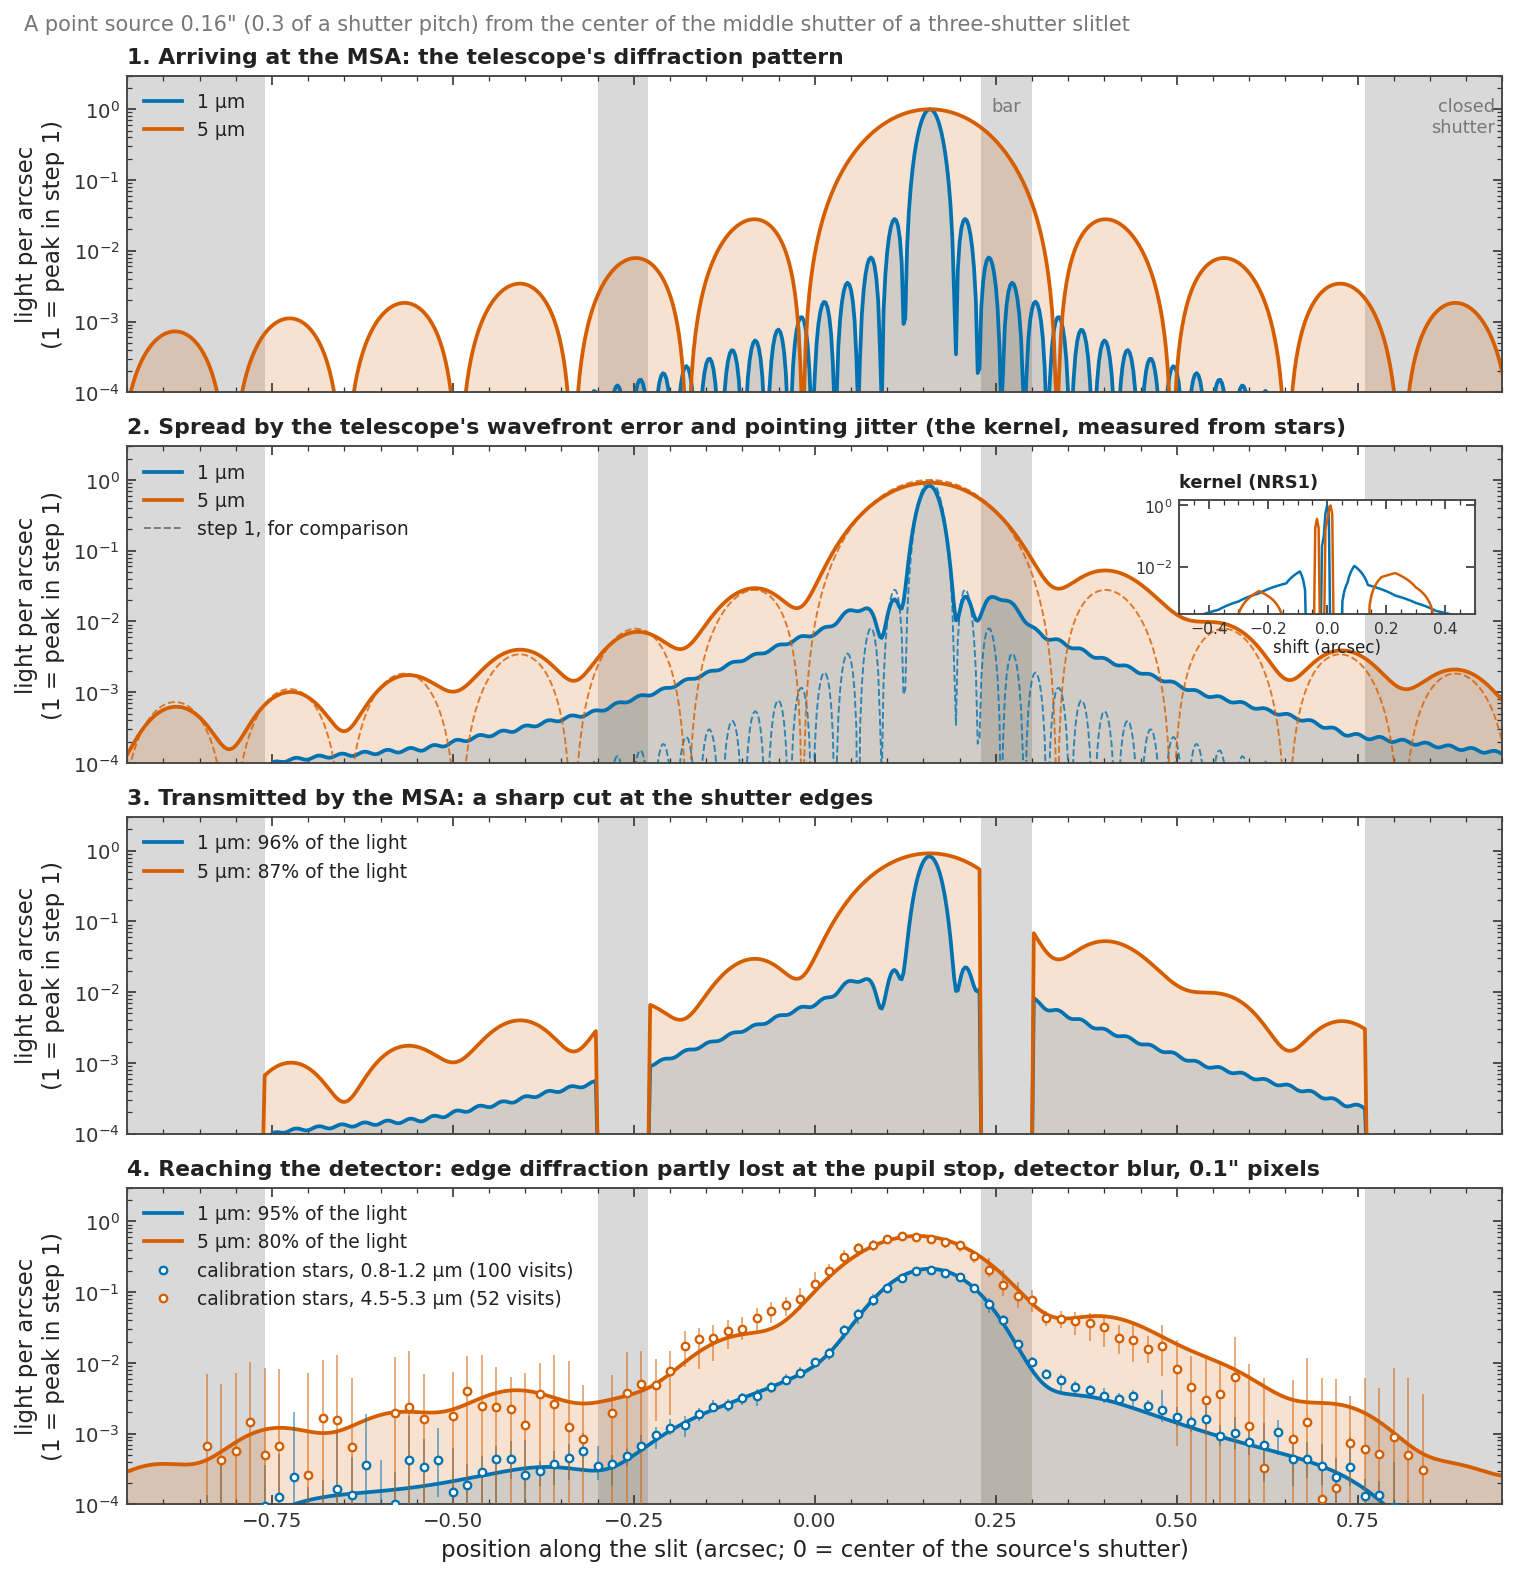
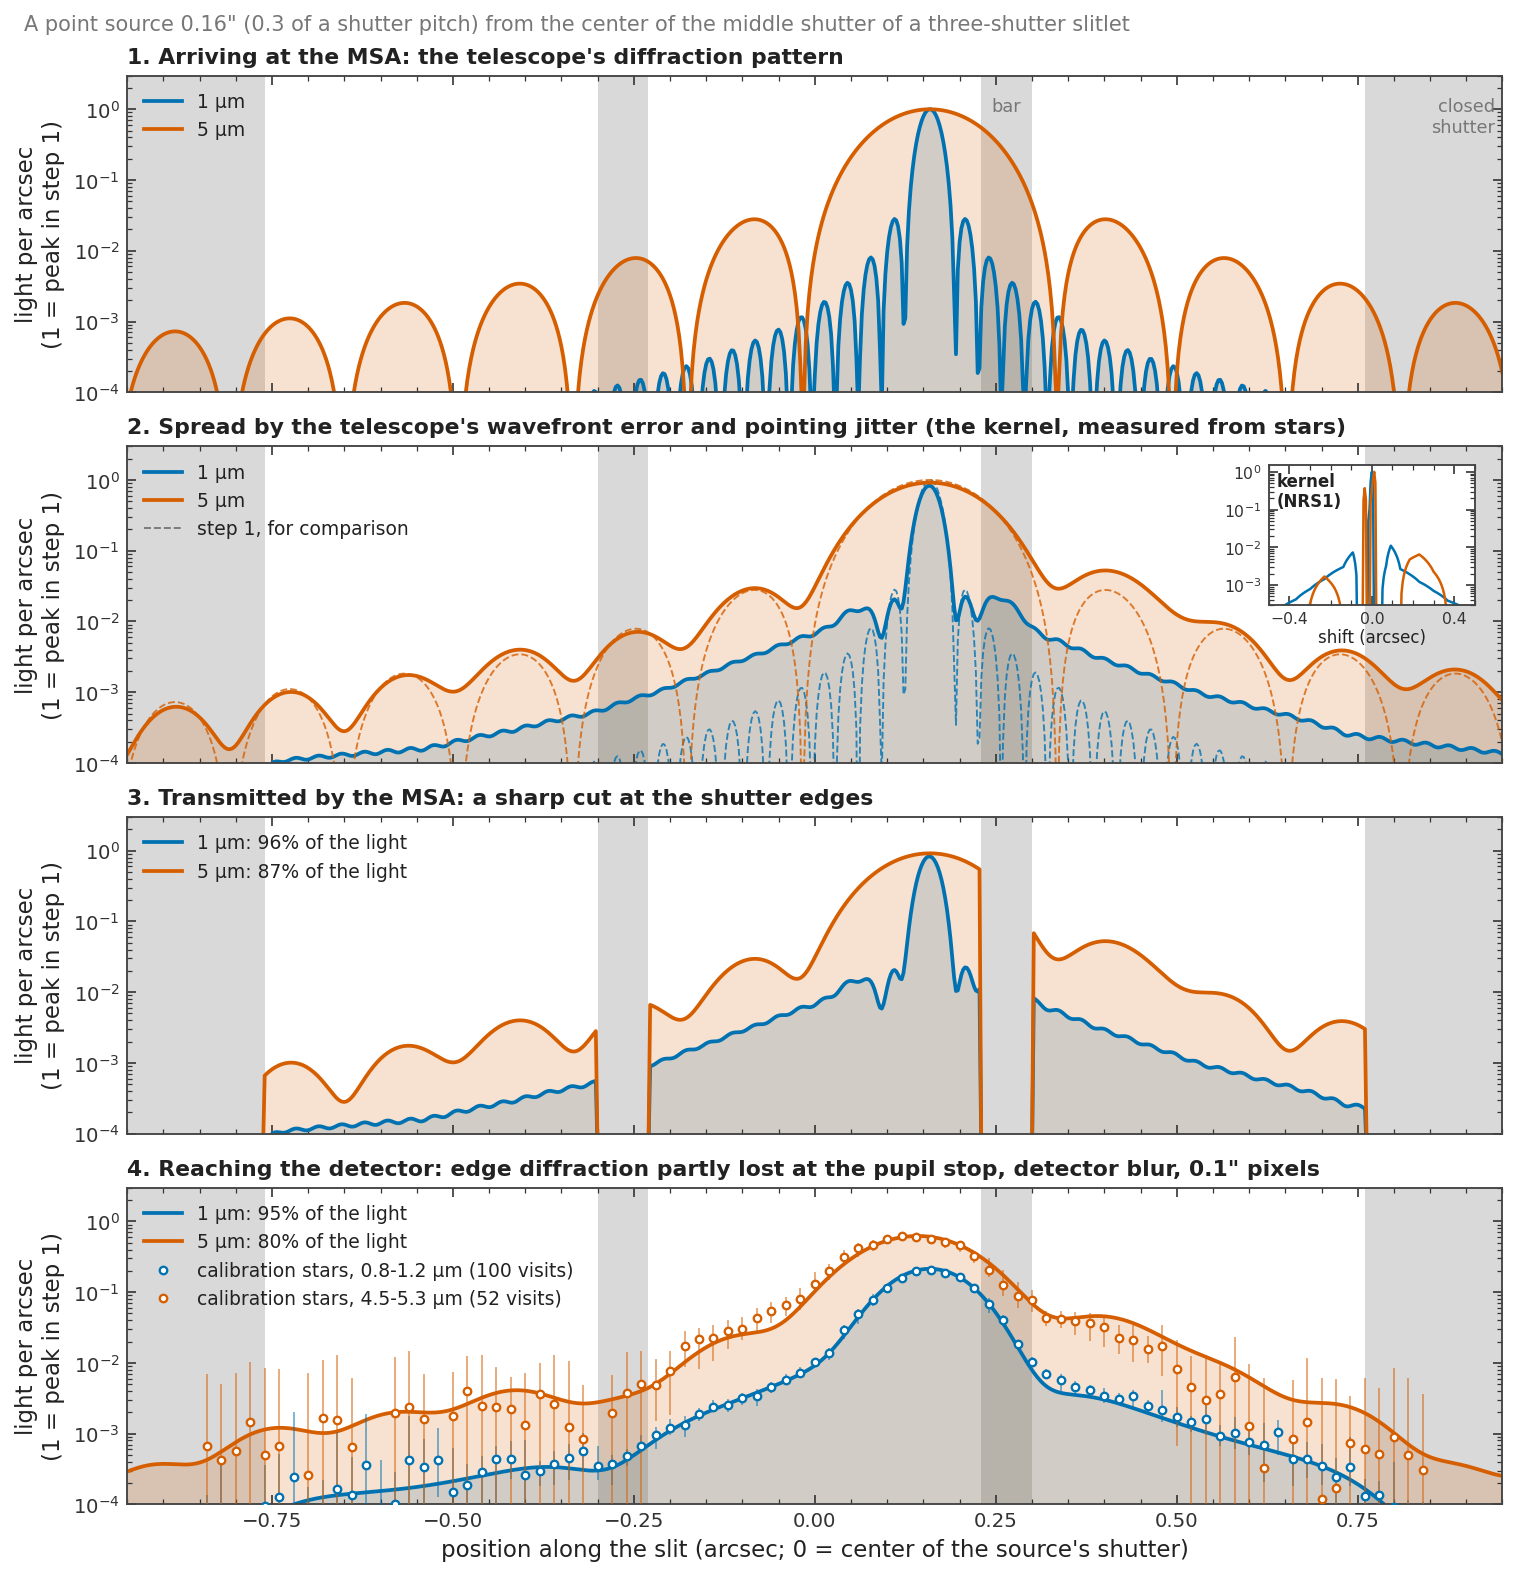
docs: narrower kernel inset with its title inside
Claude-Session: https://claude.ai/code/session_019a5zAqWZLmp6Vb2WHQdrWE

Changed region(s): [[0.7746, 0.2796, 0.9914, 0.435]]

diff --git a/scripts/docs/nirspec/fig_optics_steps.py b/scripts/docs/nirspec/fig_optics_steps.py
@@ -140,7 +140,7 @@ axes[0].text(0.94, 0.93, 'closed\nshutter', ha='right', va='top', fontsize=8.5, 
              transform=axes[0].get_xaxis_transform())
 axes[-1].set_xlabel("position along the slit (arcsec; 0 = center of the source's shutter)")
 
-kx = axes[1].inset_axes([0.765, 0.47, 0.215, 0.36])                   # the kernel, inside step 2
+kx = axes[1].inset_axes([0.83, 0.5, 0.15, 0.44])                      # the kernel, inside step 2
 step_as = (offs[1] - offs[0]) * O.SLIT                               # the pipeline's uniform grid of shifts
 for lam, color in zip(args.wavelengths, (C.WAVE_COLORS[0], C.WAVE_COLORS[-1])):
     k = curves[lam]['kernel'] / step_as                               # light per arcsec of shift, unit total
@@ -150,8 +150,10 @@ kx.set_yscale('log')
 kx.set_ylim(3e-4, 1.5)
 kx.set_xlim(-0.5, 0.5)
 kx.tick_params(labelsize=7.5)
+kx.set_xticks([-0.4, 0.0, 0.4])
 kx.set_xlabel('shift (arcsec)', fontsize=8, labelpad=1)
-kx.set_title(f'kernel ({args.detector})', fontsize=8.5, loc='left')
+kx.text(0.04, 0.95, f'kernel\n({args.detector})', transform=kx.transAxes, ha='left', va='top', fontsize=8,
+        fontweight='bold', color=C.INK)
 kx.patch.set_facecolor('white')
 fig.suptitle(f'A point source {args.position * O.PITCH_AS:.2f}" ({args.position:g} of a shutter pitch) from the '
              'center of the middle shutter of a three-shutter slitlet', x=0.01, ha='left', fontsize=10,
